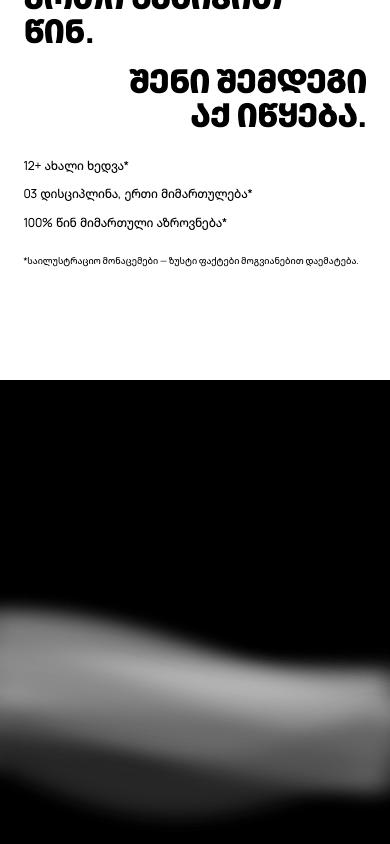
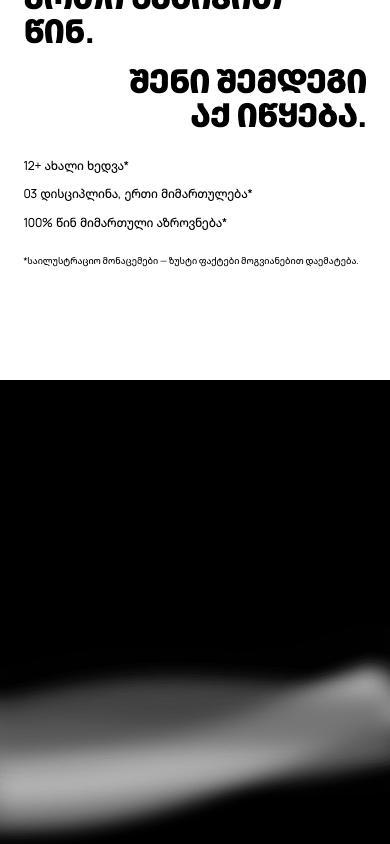
feat: showreel fragments start widely scattered and tilted, assemble on scroll
ThreadRig-Thread: main

Changed region(s): [[0.0, 0.7085, 1.0, 1.0]]

diff --git a/src/components/hero/HeroMedia.tsx b/src/components/hero/HeroMedia.tsx
@@ -21,8 +21,19 @@ const FRAGMENT_DIRECTIONS: Record<string, [number, number]> = {
   "l-x-p2": [0.25, -0.97],
   "l-x-p3": [0.64, 0.77],
 };
-// 30 keeps every fragment clear of neighbouring letters (closest: AGENCY's E bar vs G) and inside the gutter.
-const FRAGMENT_DISTANCE = 30;
+// Scattered start: fragments fly well out along their cut direction, tilted, then assemble on scroll.
+const FRAGMENT_DISTANCE = 140;
+// Per-fragment tilt at rest (degrees), alternating so the scatter reads as debris, not a pattern.
+const FRAGMENT_ROTATION: Record<string, number> = {
+  "l-n1-p2": 28,
+  "l-n2-p2": -22,
+  "l-n1-p3": -34,
+  "l-n2-p3": 26,
+  "l-e1-p2": -14,
+  "l-e2-p2": 18,
+  "l-x-p2": 36,
+  "l-x-p3": -30,
+};
 // Wordmark rests at this fraction of its full gutter width and grows to 1 on scroll.
 // Rest size relative to the final (CSS) size: same on-screen start as before (0.38 of the gutter).
 const WORDMARK_REST_SCALE = 0.38 / 0.75;
@@ -52,7 +63,9 @@ export function HeroMedia({ copy }: { copy: HeroContent }) {
       fragments.forEach((piece) =>
         gsap.set(piece, {
           ...fragmentOffset(piece.getAttribute("data-piece")!, FRAGMENT_DISTANCE),
-          opacity: 0.55,
+          rotation: FRAGMENT_ROTATION[piece.getAttribute("data-piece")!],
+          transformOrigin: "50% 50%",
+          opacity: 0.4,
         }),
       );
       const start = contextSafe!(() => {
@@ -86,12 +99,13 @@ export function HeroMedia({ copy }: { copy: HeroContent }) {
             {
               x: 0,
               y: 0,
+              rotation: 0,
               opacity: 1,
-              duration: 0.45,
-              ease: "power3.out",
-              stagger: { each: 0.02, from: "center" },
+              duration: 0.6,
+              ease: "power2.inOut",
+              stagger: { each: 0.015, from: "random" },
             },
-            0.5,
+            0.3,
           );
       });
       return afterLoader(start);
